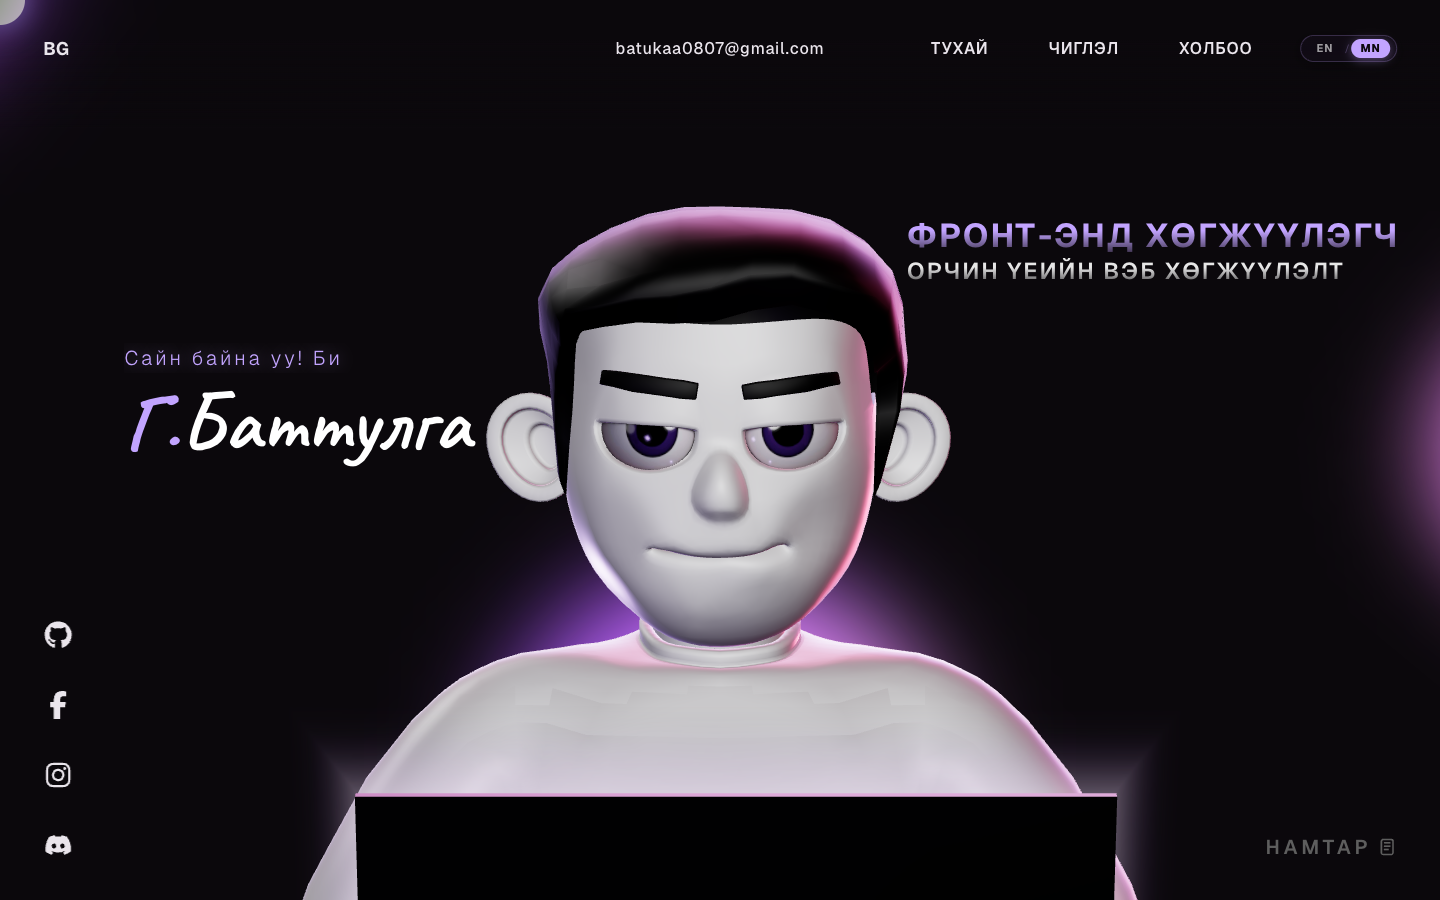
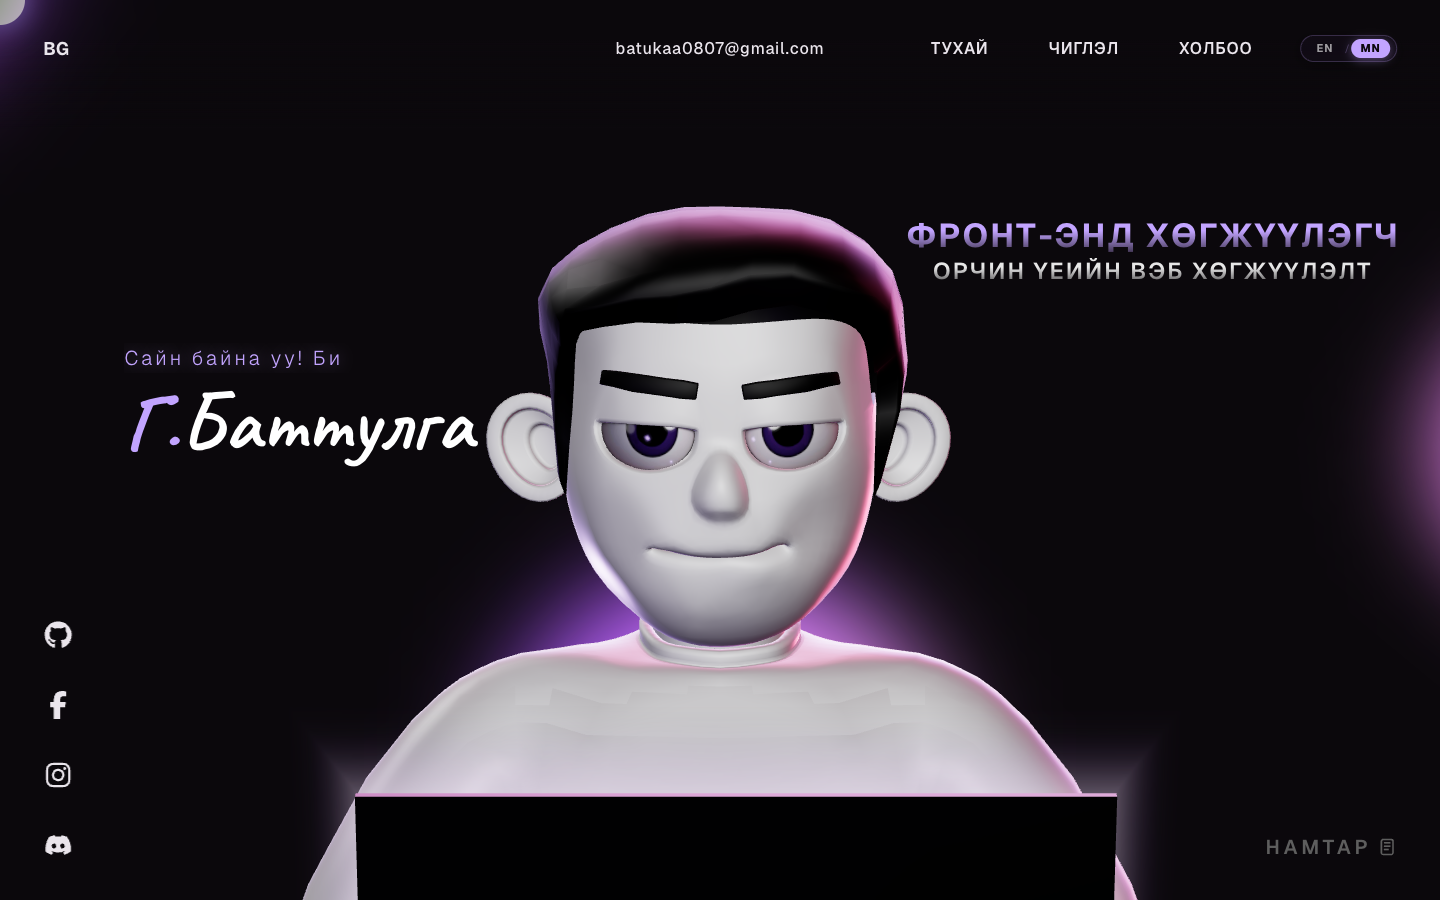
style(landing): center FRONT-END DEV and MODERN WEB DEV text across mobile and desktop views

Changed region(s): [[0.625, 0.2489, 0.9688, 0.3111], [0.25, 0.4667, 0.3438, 0.4978]]

diff --git a/src/components/styles/Landing.css b/src/components/styles/Landing.css
@@ -113,24 +113,23 @@
     left: auto !important;
     right: auto !important;
     transform: none !important;
-    text-align: center;
+    text-align: center !important;
     width: auto !important;
     max-width: 90vw !important;
     z-index: 10;
     pointer-events: auto;
     margin: 0 auto;
-    display: inline-flex;
-    flex-direction: row;
-    flex-wrap: wrap;
-    justify-content: center;
-    align-items: center;
-    gap: 6px;
+    display: inline-flex !important;
+    flex-direction: column !important;
+    justify-content: center !important;
+    align-items: center !important;
+    gap: 4px;
     background: rgba(14, 10, 18, 0.72);
     backdrop-filter: blur(14px);
     -webkit-backdrop-filter: blur(14px);
     border: 1px solid rgba(194, 164, 255, 0.2);
     border-radius: 20px;
-    padding: 6px 14px;
+    padding: 8px 22px;
     box-shadow: 0 8px 25px rgba(0, 0, 0, 0.45);
   }
 
@@ -138,41 +137,48 @@
   h2.landing-info-h2,
   h2.landing-info-h2-sub {
     position: relative !important;
-    display: inline-block !important;
-    width: auto !important;
+    display: flex !important;
+    justify-content: center !important;
+    align-items: center !important;
+    width: 100% !important;
     max-width: 100% !important;
     margin: 0 !important;
     line-height: 1.25 !important;
     white-space: normal !important;
     word-break: normal !important;
     overflow-wrap: break-word !important;
-    text-align: center;
+    text-align: center !important;
     height: auto !important;
     transform: none !important;
     text-transform: uppercase;
   }
 
-  .landing-info-h2::after {
-    display: inline-block !important;
-    content: "•";
-    color: rgba(194, 164, 255, 0.4);
-    margin: 0 4px 0 6px;
+  .landing-info .split-h2 {
+    display: flex !important;
+    justify-content: center !important;
+    align-items: center !important;
+    width: 100% !important;
+    text-align: center !important;
   }
 
   .landing-h2-1 {
-    font-size: 11px !important;
+    font-size: 11.5px !important;
     color: var(--accentColor);
     font-weight: 700;
-    letter-spacing: 0.8px;
-    display: inline-block;
+    letter-spacing: 1.2px;
+    display: block !important;
+    text-align: center !important;
+    width: 100% !important;
   }
 
   .landing-h2-info {
     font-size: 10.5px !important;
     color: rgba(255, 255, 255, 0.88);
-    letter-spacing: 0.6px;
+    letter-spacing: 1px;
     font-weight: 600;
-    display: inline-block;
+    display: block !important;
+    text-align: center !important;
+    width: 100% !important;
   }
 
   .landing-info-h2::after {
@@ -388,6 +394,10 @@
   z-index: 9;
   max-width: 90vw;
   box-sizing: border-box;
+  display: flex;
+  flex-direction: column;
+  align-items: center;
+  text-align: center;
 }
 
 .landing-info h2 {
@@ -399,6 +409,16 @@
   letter-spacing: 2px;
   white-space: nowrap;
   max-width: 100%;
+  text-align: center;
+  display: flex;
+  justify-content: center;
+}
+
+.landing-info .split-h2 {
+  display: flex;
+  justify-content: center !important;
+  align-items: center;
+  width: 100%;
 }
 
 /* Signature bottom text fade for Front-End Developer and Modern Web Developer */
@@ -565,7 +585,10 @@ h2.landing-info-h2-sub {
     overflow: visible;
     top: 48%;
     transform: translate(-50%, -50%);
-    text-align: left;
+    text-align: center;
+    display: flex;
+    flex-direction: column;
+    align-items: center;
     z-index: 9;
   }
 

diff --git a/src/utils/textSplitter.ts b/src/utils/textSplitter.ts
@@ -53,7 +53,7 @@ export class TextSplitter {
     element.innerHTML = chars
       .map((char) => {
         if (char === " ") {
-          return '<span class="split-char"> </span>';
+          return '<span class="split-char">&nbsp;</span>';
         }
         if (char === "\n") {
           return "<br>";

diff --git a/src/index.css b/src/index.css
@@ -125,6 +125,12 @@ body {
   display: flex;
   white-space: nowrap;
   flex-wrap: nowrap;
+  justify-content: center;
+}
+
+.split-char {
+  display: inline-block;
+  white-space: pre;
 }
 
 .techstack {
